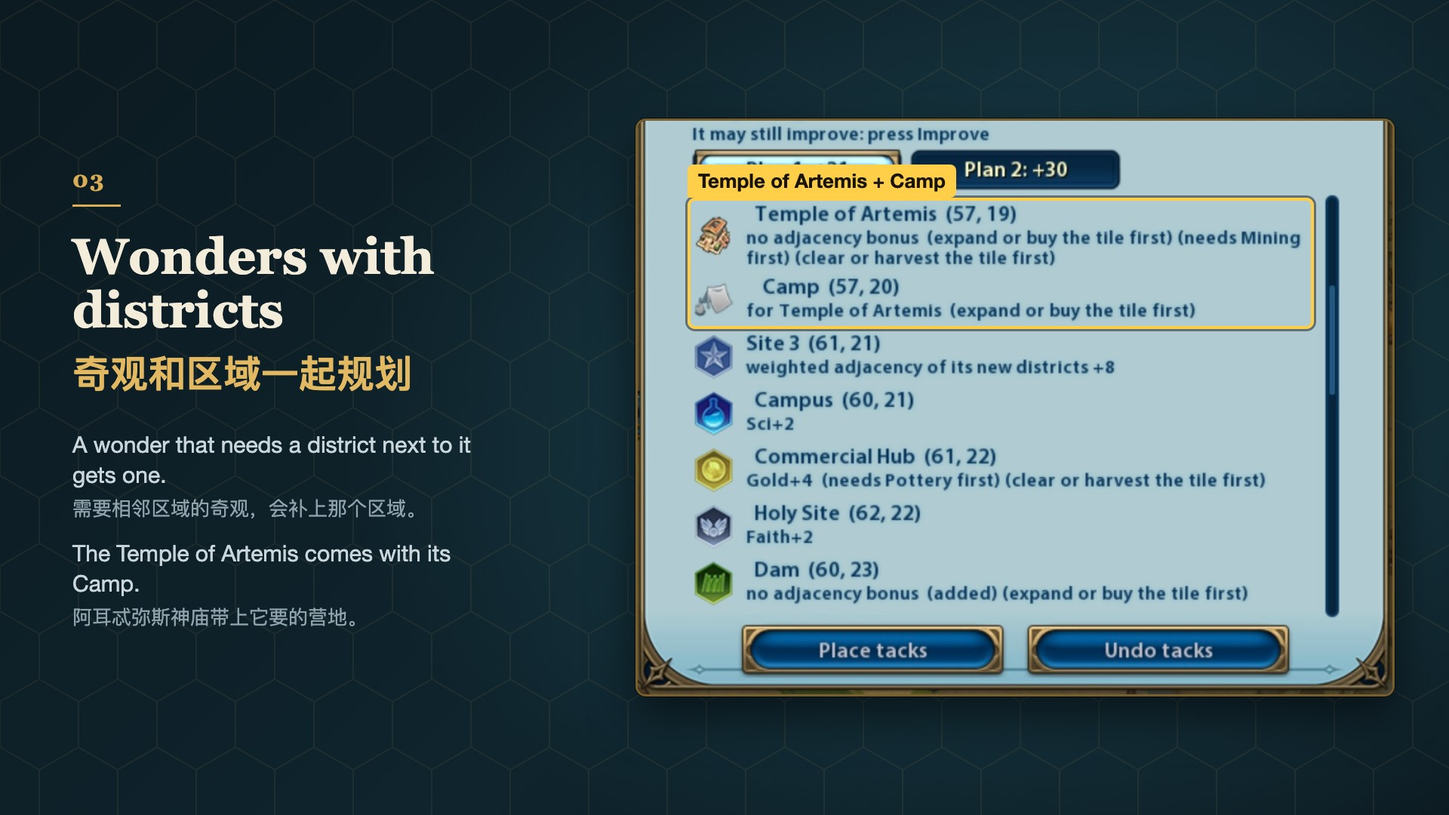
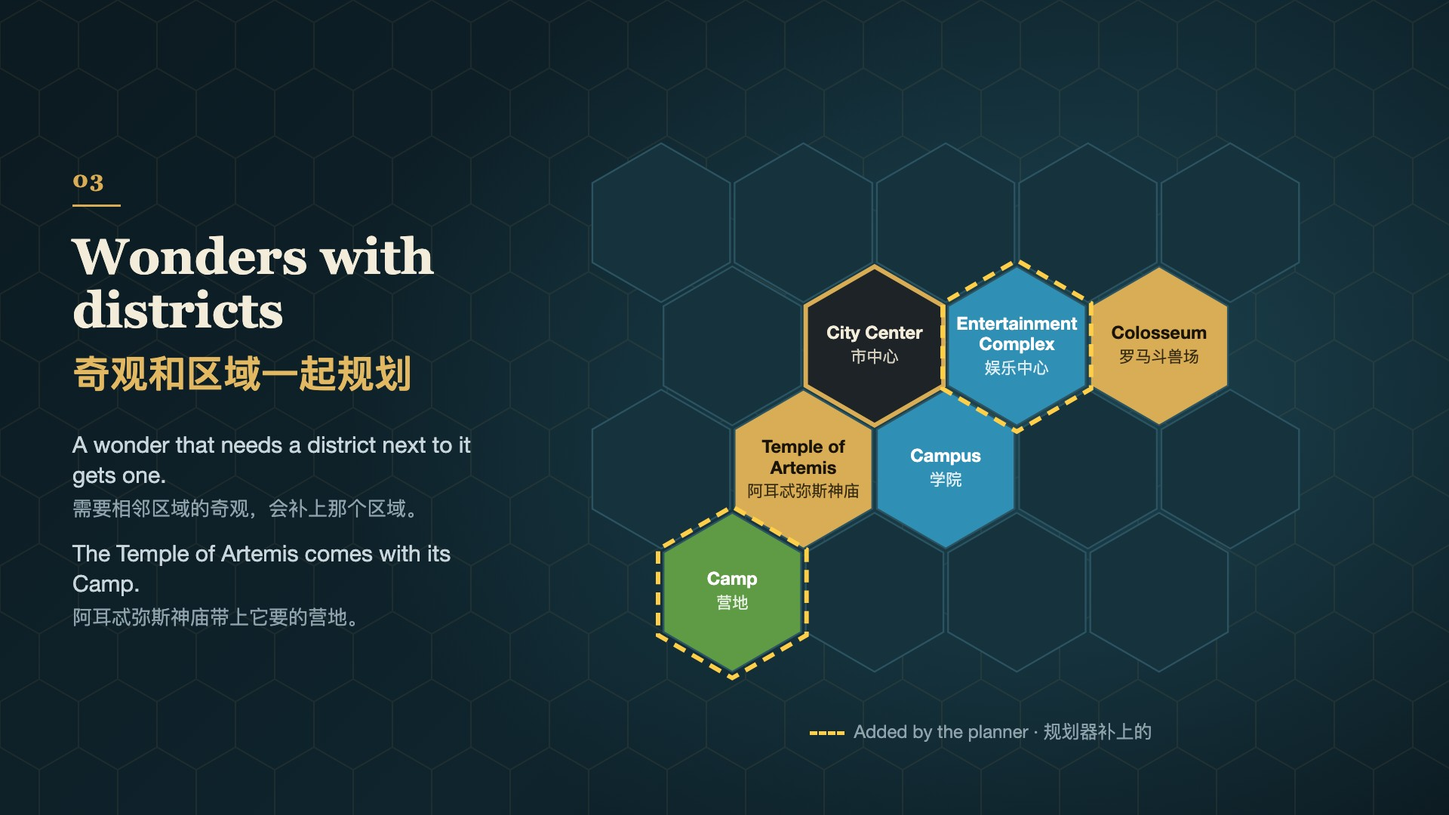
Illustrate the similar-mods section and quality with drawn diagrams, not screenshots (#82)
- report/diagrams.py draws the "what each planner plans" matrix: inline in the
  page (follows its theme) and as SVG files for the README (light/dark via <picture>).
- Section 04 gets a chart of Standard's share of the true optimum per kind of scenario.
- Workshop picture 03 is now a drawn hex schematic of wonders with the districts and
  Camp they need, instead of a panel screenshot.

diff --git a/workshop/src/g3-wonders.html b/workshop/src/g3-wonders.html
@@ -1,8 +1,14 @@
 <!doctype html>
-<!-- Workshop picture 03, 1920 x 1080. Rendered by tools/workshop.py render. -->
+<!-- Workshop picture 03, 1920 x 1080: a drawn schematic, not a screenshot (#82). Rendered by tools/workshop.py render.
+     The hex map is generated once; edit the tiles here directly. -->
 <html lang="en"><head><meta charset="utf-8"><title>Wonders with districts</title>
 <link rel="stylesheet" href="slide.css">
-<style></style></head>
+<style>
+  .map { position: absolute; right: 90px; top: 50%; transform: translateY(-50%); width: 1060px; }
+  .map svg { display: block; width: 100%; height: auto; }
+  .key { position: absolute; right: 90px; bottom: 70px; width: 1060px; font-size: 24px; color: var(--muted); text-align: center; }
+  .key i { display: inline-block; width: 46px; height: 0; border-top: 5px dashed var(--mark); vertical-align: middle; margin-right: 12px; }
+</style></head>
 <body>
   <div class="text">
     <div class="num">03</div>
@@ -13,6 +19,6 @@
     <p>The Temple of Artemis comes with its Camp.<span>阿耳忒弥斯神庙带上它要的营地。</span></p>
     </div>
   </div>
-  <div class="shot" style="width:1000px;height:760px"><img src="../../docs/images/v11-en-panel-multi.jpg" style="object-position:50% 100%"></div>
-  <div class="mark" style="right:179px;top:262px;width:822px;height:166px"><i>Temple of Artemis + Camp</i></div>
+  <div class="map"><svg viewBox="0 0 896 618" font-family="Helvetica Neue, Arial, PingFang SC, Microsoft YaHei, sans-serif"><polygon points="166.8,57.5 166.8,146.5 89.7,191.0 12.6,146.5 12.6,57.5 89.7,13.0" fill="#16323c" stroke="#2b5361" stroke-width="2"/><polygon points="326.1,57.5 326.1,146.5 249.0,191.0 171.9,146.5 171.9,57.5 249.0,13.0" fill="#16323c" stroke="#2b5361" stroke-width="2"/><polygon points="485.4,57.5 485.4,146.5 408.4,191.0 331.3,146.5 331.3,57.5 408.4,13.0" fill="#16323c" stroke="#2b5361" stroke-width="2"/><polygon points="644.8,57.5 644.8,146.5 567.7,191.0 490.6,146.5 490.6,57.5 567.7,13.0" fill="#16323c" stroke="#2b5361" stroke-width="2"/><polygon points="804.1,57.5 804.1,146.5 727.1,191.0 650.0,146.5 650.0,57.5 727.1,13.0" fill="#16323c" stroke="#2b5361" stroke-width="2"/><polygon points="246.4,195.5 246.4,284.5 169.3,329.0 92.3,284.5 92.3,195.5 169.3,151.0" fill="#16323c" stroke="#2b5361" stroke-width="2"/><polygon points="405.8,195.5 405.8,284.5 328.7,329.0 251.6,284.5 251.6,195.5 328.7,151.0" fill="#1d2326" stroke="#d8ad55" stroke-width="5"/><polygon points="565.1,195.5 565.1,284.5 488.0,329.0 411.0,284.5 411.0,195.5 488.0,151.0" fill="#2f8fb5" stroke="#2b5361" stroke-width="2"/><polygon points="724.5,195.5 724.5,284.5 647.4,329.0 570.3,284.5 570.3,195.5 647.4,151.0" fill="#d8ad55" stroke="#2b5361" stroke-width="2"/><polygon points="166.8,333.5 166.8,422.5 89.7,467.0 12.6,422.5 12.6,333.5 89.7,289.0" fill="#16323c" stroke="#2b5361" stroke-width="2"/><polygon points="326.1,333.5 326.1,422.5 249.0,467.0 171.9,422.5 171.9,333.5 249.0,289.0" fill="#d8ad55" stroke="#2b5361" stroke-width="2"/><polygon points="485.4,333.5 485.4,422.5 408.4,467.0 331.3,422.5 331.3,333.5 408.4,289.0" fill="#2f8fb5" stroke="#2b5361" stroke-width="2"/><polygon points="644.8,333.5 644.8,422.5 567.7,467.0 490.6,422.5 490.6,333.5 567.7,289.0" fill="#16323c" stroke="#2b5361" stroke-width="2"/><polygon points="804.1,333.5 804.1,422.5 727.1,467.0 650.0,422.5 650.0,333.5 727.1,289.0" fill="#16323c" stroke="#2b5361" stroke-width="2"/><polygon points="246.4,471.5 246.4,560.5 169.3,605.0 92.3,560.5 92.3,471.5 169.3,427.0" fill="#5f9a45" stroke="#2b5361" stroke-width="2"/><polygon points="405.8,471.5 405.8,560.5 328.7,605.0 251.6,560.5 251.6,471.5 328.7,427.0" fill="#16323c" stroke="#2b5361" stroke-width="2"/><polygon points="565.1,471.5 565.1,560.5 488.0,605.0 411.0,560.5 411.0,471.5 488.0,427.0" fill="#16323c" stroke="#2b5361" stroke-width="2"/><polygon points="724.5,471.5 724.5,560.5 647.4,605.0 570.3,560.5 570.3,471.5 647.4,427.0" fill="#16323c" stroke="#2b5361" stroke-width="2"/><text x="328.7" y="232.0" text-anchor="middle" font-size="20" font-weight="700" fill="#f4ecda">City Center</text><text x="328.7" y="258.0" text-anchor="middle" font-size="18" fill="#f4ecda" opacity=".85">市中心</text><polygon points="571.2,192.0 571.2,288.0 488.0,336.0 404.9,288.0 404.9,192.0 488.0,144.0" fill="none" stroke="#ffcf4a" stroke-width="5" stroke-dasharray="14 9"/><text x="488.0" y="222.0" text-anchor="middle" font-size="20" font-weight="700" fill="#ffffff">Entertainment</text><text x="488.0" y="245.0" text-anchor="middle" font-size="20" font-weight="700" fill="#ffffff">Complex</text><text x="488.0" y="271.0" text-anchor="middle" font-size="18" fill="#ffffff" opacity=".85">娱乐中心</text><text x="647.4" y="232.0" text-anchor="middle" font-size="20" font-weight="700" fill="#1a1408">Colosseum</text><text x="647.4" y="258.0" text-anchor="middle" font-size="18" fill="#1a1408" opacity=".85">罗马斗兽场</text><text x="249.0" y="360.0" text-anchor="middle" font-size="20" font-weight="700" fill="#1a1408">Temple of</text><text x="249.0" y="383.0" text-anchor="middle" font-size="20" font-weight="700" fill="#1a1408">Artemis</text><text x="249.0" y="409.0" text-anchor="middle" font-size="18" fill="#1a1408" opacity=".85">阿耳忒弥斯神庙</text><polygon points="252.5,468.0 252.5,564.0 169.3,612.0 86.2,564.0 86.2,468.0 169.3,420.0" fill="none" stroke="#ffcf4a" stroke-width="5" stroke-dasharray="14 9"/><text x="169.3" y="508.0" text-anchor="middle" font-size="20" font-weight="700" fill="#ffffff">Camp</text><text x="169.3" y="534.0" text-anchor="middle" font-size="18" fill="#ffffff" opacity=".85">营地</text><text x="408.4" y="370.0" text-anchor="middle" font-size="20" font-weight="700" fill="#ffffff">Campus</text><text x="408.4" y="396.0" text-anchor="middle" font-size="18" fill="#ffffff" opacity=".85">学院</text></svg></div>
+  <p class="key"><i></i>Added by the planner · 规划器补上的</p>
 </body></html>

diff --git a/report/template_en.html b/report/template_en.html
@@ -359,6 +359,7 @@ details.appx[open] > summary { margin-bottom: 8px; }
 
 <section id="similar"><div class="col">
   <h2 data-n="03">Similar mods</h2>
+  <figure><div class="frame scroll">{{SIMILAR_FIG}}</div><figcaption>What each planner plans (checked on 2026-10-26 against each mod's Workshop page and files). The table below also lists rulesets, interface languages, what not to enable together and update dates.</figcaption></figure>
   <p>The Steam Workshop has a few more mods that plan districts, each with its own focus; pick by the features you want. First, what they have and this mod does not:</p>
   <ul class="tight">
     <li><b><a href="https://steamcommunity.com/sharedfiles/filedetails/?id=3771382002">Auto Map Tacks Planner</a></b>: for players who want improvements and unique improvements laid out together with districts and wonders, as a long-term blueprint by population. This mod does not have: planning improvements and unique improvements; taking your “Remove Feature / Harvest Resource / Plant Woods” tacks as instructions; the two modes “only what is unlocked” and “long-term blueprint”; a Traditional Chinese interface.</li>
@@ -394,6 +395,10 @@ details.appx[open] > summary { margin-bottom: 8px; }
   <h3>How far from the best</h3>
   <p>Offline, with the real rules exported from the game and DMT's code as it is, the planner plans scenarios modeled on real games; each plan is scored by the numbers its map tacks show and set against the true optimum found by branch and bound (method in appendix B.1). {{QUALITY_TEXT}}</p>
   <p>{{OPTIMUM_TEXT}}</p>
+  <figure>
+    <div class="frame chart" id="ch-optimum"></div>
+    <figcaption>Standard's mean share of the true optimum, by kind of scenario. Dark bars: the optimum is proven; a lighter extension: some scenarios are not proven, and the share lies between the end of the dark part (against the optimum's upper bound) and the end of the light part (against the best plan known). Hover for the number of scenarios.</figcaption>
+  </figure>
 </div>
 <div class="col tablewrap" style="margin-inline:auto">{{OPTIMUM_TABLE}}</div>
 <div class="col">

diff --git a/report/charts.js b/report/charts.js
@@ -112,6 +112,30 @@
       });
     });
   }
+  // One bar per row from cfg.min: solid to r.low, a lighter part on to r.known when r.ranged.
+  function rangeBars(id, cfg) {
+    if (!has(id)) return;
+    const host = document.getElementById(id);
+    const W = 640, left = labelRoom(cfg.rows.map(r => r.label), 150), right = 74, top = 8, rowH = 26;
+    const H = top + cfg.rows.length * rowH + 28;
+    const svg = el('svg', { viewBox: '0 0 ' + W + ' ' + H, role: 'img', 'aria-label': cfg.aria }, host);
+    const x = v => left + (Math.max(v, cfg.min) - cfg.min) / (cfg.max - cfg.min) * (W - left - right);
+    cfg.ticks.forEach(t => {
+      el('line', { x1: x(t), x2: x(t), y1: top, y2: H - 24, class: t === cfg.min ? 'base' : 'grid' }, svg);
+      txt(svg, x(t), H - 8, t + '%', 'ax', 'middle');
+    });
+    cfg.rows.forEach((r, i) => {
+      const y0 = top + i * rowH, bh = 14, by = y0 + 6;
+      txt(svg, left - 10, y0 + 17, r.label, 'ax-l', 'end');
+      const g = el('g', {}, svg);
+      if (r.ranged) el('rect', { x: x(cfg.min), y: by, width: Math.max(2, x(r.known) - x(cfg.min)), height: bh, rx: 3,
+        style: 'fill: var(--sdp); opacity: 0.3' }, g);
+      el('rect', { x: x(cfg.min), y: by, width: Math.max(2, x(r.low) - x(cfg.min)), height: bh, rx: 3, style: 'fill: var(--sdp)' }, g);
+      hover(g, r.tip);
+      txt(svg, x(r.ranged ? r.known : r.low) + 6, by + 11,
+        r.ranged ? r.low.toFixed(0) + '–' + r.known.toFixed(0) + '%' : r.low.toFixed(1) + '%', 'val', 'start');
+    });
+  }
   // One row per planner, one dot per scenario, a tick at the mean.
   function strip(id, cfg) {
     if (!has(id)) return;
@@ -192,6 +216,9 @@
       fmt: (v, l) => (l ? v.toFixed(1) : v.toFixed(0)) + '%', short: v => v.toFixed(0), aria: aria }, extra || {}));
   };
 
+  if (D.optimum && D.optimum.length) {
+    rangeBars('ch-optimum', { rows: D.optimum, min: 50, max: 100, ticks: [50, 60, 70, 80, 90, 100], aria: T.ariaOptimum });
+  }
   table('tb-overview', T.headOverview,
     D.overview.map(r => [r.label, r.best, r.quality, r.worst, r.legal, r.missing, r.time]));
 

diff --git a/report/template.html b/report/template.html
@@ -358,6 +358,7 @@ details.appx[open] > summary { margin-bottom: 8px; }
 
 <section id="similar"><div class="col">
   <h2 data-n="03">同类模组</h2>
+  <figure><div class="frame scroll">{{SIMILAR_FIG}}</div><figcaption>各模组规划什么（2026-10-26 按各自的创意工坊页面和模组文件核对）。下面的表还列了规则集、界面语言、同开限制和更新日期。</figcaption></figure>
   <p>创意工坊里还有几个自动规划区域的模组，取向各不相同，可以按想要的功能挑。先列它们有、本模组没有的功能：</p>
   <ul class="tight">
     <li><b><a href="https://steamcommunity.com/sharedfiles/filedetails/?id=3771382002">Auto Map Tacks Planner</a></b>：适合想把改良设施、特色改良设施和区域、奇观一起排，按人口做长期蓝图的玩家。本模组没有的：规划改良设施和特色改良设施；把你打的“移除地貌 / 采收 / 种树”钉当作规划指令；“只用已解锁的内容”和“长期蓝图”两种模式；繁体中文界面。</li>
@@ -393,6 +394,10 @@ details.appx[open] > summary { margin-bottom: 8px; }
   <h3>离最优多远</h3>
   <p>在离线环境里，用游戏导出的真实规则和 DMT 原样的代码，在模拟实际对局的场景上规划，按地图钉上显示的数打分，再与用分支定界求出的真最优比较（方法见附录 B.1）。{{QUALITY_TEXT}}</p>
   <p>{{OPTIMUM_TEXT}}</p>
+  <figure>
+    <div class="frame chart" id="ch-optimum"></div>
+    <figcaption>标准档的加成占真最优的平均比例，按场景类别。深色条：真最优已证明；浅色延长的部分：有场景没证明，比例在深色末端（按真最优的上界算）和浅色末端（按已知最好的方案算）之间。悬停看场景数。</figcaption>
+  </figure>
 </div>
 <div class="col tablewrap" style="margin-inline:auto">{{OPTIMUM_TABLE}}</div>
 <div class="col">

diff --git a/report/diagrams.py b/report/diagrams.py
@@ -1,0 +1,115 @@
+"""Diagrams drawn for the page and the README, in Chinese and English.
+
+    python3 -I report/diagrams.py      # writes docs/images/similar-mods-{zh,en}-{light,dark}.svg
+
+similar_svg(lang) is the "what each planner plans" matrix (section 03 and
+the README's similar-mods table): facts only, no scores. Inline in the page
+it colors itself with the page's CSS variables, so it follows the page's
+theme; the README gets one file per theme (<picture> picks it).
+"""
+import os
+
+HERE = os.path.dirname(os.path.abspath(__file__))
+REPO = os.path.dirname(HERE)
+
+# Checked on 2026-10-26 against each mod's Workshop page and files (docs/notes/planner-comparison.md).
+# Each cell: (mark, note): mark "y" plans it, "p" only the one a wonder needs, "n" does not, "t" plain text.
+SIMILAR = {
+    "cols": {"zh": ["区域", "奇观", "改良设施", "选新城址", "多城一起规划", "需要 DMT"],
+             "en": ["Districts", "Wonders", "Improvements", "New city sites", "Cities together", "Needs DMT"]},
+    "rows": [
+        ("Auto Map Tacks Planner", None, [
+            ("y", ("", "")), ("y", ("", "")), ("y", ("含特色改良", "unique ones too")), ("n", ("", "")),
+            ("y", ("最多 4 座", "up to 4")), ("t", ("需要", "yes"))]),
+        ("Empire Planner", None, [
+            ("y", ("", "")), ("y", ("", "")), ("y", ("", "")), ("y", ("0–6 处", "0–6")),
+            ("y", ("全部城市", "every city")), ("t", ("不需要", "no"))]),
+        ("District & Wonder Planner", None, [
+            ("y", ("一次 3 种", "3 kinds at a time")), ("y", ("最多 5 座", "up to 5")), ("p", ("奇观所需", "for a wonder")),
+            ("n", ("", "")), ("y", ("可勾选全部", "all, with a tick")), ("t", ("需要", "yes"))]),
+        ("本模组", "This mod", [
+            ("y", ("", "")), ("y", ("", "")), ("p", ("奇观所需", "for a wonder")), ("y", ("", "")),
+            ("y", ("最多 8 座", "up to 8")), ("t", ("需要", "yes"))]),
+    ],
+    "legend": {"zh": [("y", "规划"), ("p", "只规划奇观需要的那一种"), ("n", "不规划")],
+               "en": [("y", "plans it"), ("p", "only the one a wonder needs"), ("n", "does not plan it")]},
+}
+
+# Colors of a standalone file, per theme (the page uses its own CSS variables instead).
+THEMES = {
+    "light": {"fg": "#14202a", "muted": "#56646e", "line": "#d4dce1", "mark": "#1d6470", "soft": "#dcecef"},
+    "dark": {"fg": "#e3eaee", "muted": "#9fb0ba", "line": "#2a3a44", "mark": "#6ab9c6", "soft": "#173039"},
+}
+PAGE = {"fg": "var(--fg)", "muted": "var(--muted)", "line": "var(--line)", "mark": "var(--teal)", "soft": "var(--teal-soft)"}
+
+
+def _esc(s):
+    return s.replace("&", "&amp;").replace("<", "&lt;").replace(">", "&gt;")
+
+
+def _mark(kind, cx, cy, c):
+    r = 9
+    if kind == "y":
+        return ('<circle cx="%g" cy="%g" r="%g" fill="%s"/>'
+                '<path d="M%g %g l3.6 3.8 l6.6 -7.4" fill="none" stroke="%s" stroke-width="2.2" stroke-linecap="round" '
+                'stroke-linejoin="round"/>' % (cx, cy, r, c["mark"], cx - 5, cy, c["soft"]))
+    if kind == "p":
+        return ('<circle cx="%g" cy="%g" r="%g" fill="none" stroke="%s" stroke-width="2"/>'
+                '<path d="M%g %g a%g %g 0 0 1 0 %g z" fill="%s"/>' % (cx, cy, r - 1, c["mark"], cx, cy - r + 1, r - 1, r - 1,
+                                                                    2 * (r - 1), c["mark"]))
+    return '<circle cx="%g" cy="%g" r="%g" fill="none" stroke="%s" stroke-width="1.6"/>' % (cx, cy, r - 1, c["muted"])
+
+
+def similar_svg(lang="zh", theme=None):
+    """The matrix as an SVG string; theme None colors it with the page's CSS variables."""
+    c = PAGE if theme is None else THEMES[theme]
+    li = 0 if lang == "zh" else 1
+    font = ('"Noto Sans SC", "PingFang SC", "Microsoft YaHei", system-ui, sans-serif' if lang == "zh"
+            else 'system-ui, -apple-system, "Segoe UI", Helvetica, Arial, sans-serif')
+    name_w, col_w, head_h, row_h = 196, 104, 44, 58
+    cols = SIMILAR["cols"][lang]
+    W = name_w + col_w * len(cols) + 8
+    H = head_h + row_h * len(SIMILAR["rows"]) + 44
+    out = ['<svg xmlns="http://www.w3.org/2000/svg" viewBox="0 0 %d %d" role="img" font-family=\'%s\' aria-label="%s">'
+           % (W, H, font, _esc("各模组规划什么" if lang == "zh" else "What each planner plans"))]
+    for i, name in enumerate(cols):
+        x = name_w + col_w * i + col_w / 2
+        out.append('<text x="%g" y="%d" text-anchor="middle" font-size="12.5" fill="%s">%s</text>' % (x, head_h - 16, c["muted"], _esc(name)))
+    for r, (zh, en, cells) in enumerate(SIMILAR["rows"]):
+        y0 = head_h + row_h * r
+        out.append('<line x1="0" x2="%d" y1="%d" y2="%d" stroke="%s"/>' % (W, y0, y0, c["line"]))
+        label = zh if li == 0 or en is None else en
+        out.append('<text x="10" y="%d" font-size="14" font-weight="600" fill="%s">%s</text>' % (y0 + row_h / 2 + 5, c["fg"], _esc(label)))
+        for i, (kind, notes) in enumerate(cells):
+            cx = name_w + col_w * i + col_w / 2
+            note = notes[li]
+            if kind == "t":
+                out.append('<text x="%g" y="%d" text-anchor="middle" font-size="13" fill="%s">%s</text>' % (cx, y0 + row_h / 2 + 5, c["fg"], _esc(note)))
+                continue
+            cy = y0 + (row_h / 2 - 7 if note else row_h / 2)
+            out.append(_mark(kind, cx, cy, c))
+            if note:
+                out.append('<text x="%g" y="%d" text-anchor="middle" font-size="11.5" fill="%s">%s</text>' % (cx, cy + 25, c["muted"], _esc(note)))
+    yb = head_h + row_h * len(SIMILAR["rows"])
+    out.append('<line x1="0" x2="%d" y1="%d" y2="%d" stroke="%s"/>' % (W, yb, yb, c["line"]))
+    x = 12
+    for kind, text in SIMILAR["legend"][lang]:
+        out.append(_mark(kind, x + 9, yb + 24, c))
+        out.append('<text x="%d" y="%d" font-size="12.5" fill="%s">%s</text>' % (x + 24, yb + 29, c["muted"], _esc(text)))
+        x += 34 + int(len(text) * (13 if lang == "zh" else 6.6))
+    out.append("</svg>")
+    return "".join(out)
+
+
+def write_files():
+    """docs/images/similar-mods-<lang>-<theme>.svg for the README."""
+    for lang in ("zh", "en"):
+        for theme in THEMES:
+            path = os.path.join(REPO, "docs", "images", "similar-mods-%s-%s.svg" % (lang, theme))
+            with open(path, "w", encoding="utf-8") as fh:
+                fh.write(similar_svg(lang, theme) + "\n")
+            print(os.path.relpath(path, REPO))
+
+
+if __name__ == "__main__":
+    write_files()

diff --git a/report/build.py b/report/build.py
@@ -43,6 +43,7 @@ OUT = os.path.join(REPO, "dist", "report")
 sys.path.insert(0, os.path.join(REPO, "tests", "compare"))
 sys.path.insert(0, HERE)
 import summarize  # noqa: E402
+import diagrams  # noqa: E402
 
 # Everything the report reads, so tools/package.py can refuse uncommitted changes to it.
 INPUTS = ["report", "tests/compare/results", "tests/compare/summarize.py", "docs/images", "tests/stress/results"]
@@ -122,6 +123,7 @@ CHART_WORDS = {
         "headWonders": ["档位", "奇观放下", "合法方案", "达到真最优", "平均质量"],
         "better": "没有一项更差、至少一项更好", "same": "两项都相同", "tradeoff": "一项更好、一项更差",
         "worse": "没有一项更好、至少一项更差", "excluded": "不比",
+        "ariaOptimum": "各类场景标准档的加成占真最优的比例",
         "ariaBest": "按阶段达到真最优的场景比例", "ariaQuality": "按阶段的平均质量",
         "ariaRobust": "各场景集达到真最优的比例", "ariaMRobust": "多城开发集与留出集达到参照的比例",
         "ariaWonders": "奇观放下的比例与达到真最优的比例", "ariaStrip": "多城场景的加成占该场景参照的百分比",
@@ -137,6 +139,7 @@ CHART_WORDS = {
         "headWonders": ["Effort level", "Wonders placed", "Valid plans", "At the optimum", "Mean quality"],
         "better": "None worse, at least one better", "same": "Both the same", "tradeoff": "One better, one worse",
         "worse": "None better, at least one worse", "excluded": "Not compared",
+        "ariaOptimum": "Standard's share of the true optimum in each kind of scenario",
         "ariaBest": "Share of scenarios at the true optimum, by stage", "ariaQuality": "Mean quality by stage",
         "ariaRobust": "Share of scenarios at the true optimum in each set",
         "ariaMRobust": "Share of several-city scenarios at the reference, development and held-out sets",
@@ -305,6 +308,7 @@ def build(files=None, version=None, date=None, lang="zh"):
         "DOWNLOAD_LABEL": (L("下载 ", "Download ") + version) if version.startswith("v") else L("下载最新版", "Download the latest version"),
         "N_SINGLE": str(len(single)), "N_MULTI": str(len(multi)), "N_CIVS": "17",
         "SELF_CHECK": L("%d 次，%d 次不一致", "%d runs, %d differ") % (self_n, self_mis),
+        "SIMILAR_FIG": diagrams.similar_svg(lang),
     }
     late = by_best[-1]["values"] if by_best else {}
     texts["SINGLE_TEXT"] = ""
@@ -573,7 +577,7 @@ def build(files=None, version=None, date=None, lang="zh"):
             return None
         return {"n": n, "low": statistics.mean(low), "known": statistics.mean(known), "worst": min(low), "hit": hit, "over": over, "fewer": fewer}
 
-    opt_rows, opt_data = [], {}
+    opt_rows, opt_data, opt_chart = [], {}, []
     for set_name, kind, zh, en, planners in OPT_SETS:
         sub = {sid: e for sid, e in summarize.subset(scenarios, set_name, kind).items() if e.get("reference") is not None}
         if not sub:
@@ -593,6 +597,16 @@ def build(files=None, version=None, date=None, lang="zh"):
         if all(v is None for v in data.values()):
             continue
         opt_data[(set_name, kind)] = {"n": len(sub), "proven": proven, "planners": data}
+        st = data.get("sdp:STANDARD")
+        if st:
+            opt_chart.append({"label": L(zh, en), "low": st["low"] * 100, "known": st["known"] * 100, "ranged": ranged > 0,
+                              "tip": (L("%s：标准档平均达到真最优的 %s，%d / %d 个正好是", "%s: Standard reaches %s of the optimum on average, "
+                                        "the optimum itself in %d of %d") % (L(zh, en), pct(st["low"], 1), st["hit"], len(sub)))
+                              if not ranged else
+                              (L("%s：%d 个场景里 %d 个已证明；标准档在真最优的 %s 到 %s 之间",
+                                 "%s: %d of %d scenarios proven; Standard is between %s and %s of the optimum")
+                               % (((L(zh, en), len(sub), proven) if not EN else (L(zh, en), proven, len(sub)))
+                                  + (pct(st["low"], 0), pct(st["known"], 0))))})
         label = L(zh, en)
         prov = L("%d / %d", "%d / %d") % (proven, len(sub))
         opt_rows.append("<tr><td>%s</td><td class=\"num\">%s</td>%s</tr>" % (
@@ -796,6 +810,7 @@ def build(files=None, version=None, date=None, lang="zh"):
         "byStage": {"best": by_best, "quality": by_q, "qMin": qmin, "qTicks": qticks},
         "correct": correct, "robust": robust_rows, "robustGroups": robust_groups, "robustMultiGroups": robust_multi_groups,
         "coverage": coverage, "wonders": wonder_rows, "wonderGroups": wonder_groups,
+        "optimum": opt_chart,
         "strip": {"rows": strip, "min": mmin, "max": 100, "ticks": list(range(mmin, 101, 10))},
     }
 

diff --git a/CONTRIBUTING.md b/CONTRIBUTING.md
@@ -97,7 +97,7 @@
 - 测试项数、耗时这类数字只写在自测报告和“介绍与评测”页里（由脚本生成或刷新），其他文档链接过去，免得过时。
 - 例外：面板开关的悬停提示写给玩家，分三段（中间空一行）：这个开关做什么（背后的游戏规则）、收益、代价；不用“候选格”“求解”这类内部词，不重复勾选框已经显示的默认值。收益尽量写成实测的百分比（如“相邻加成平均高 x%”），代价写手动操作和耗时倍数。数字的出处（场景、档位、命令、结果文件）记在 [docs/notes/](docs/notes/) 里对应 Issue 的记录，结果文件放在 `tests/compare/results/`。改了算法、规则或测试集后，按发版清单重跑并更新这些数字。
 - 截图只截游戏画面，不带系统菜单栏、标题栏、任务栏或 Dock。放在 `docs/images/`，按 `v<轮次>-<内容>.jpg` 命名，英文界面的加 `-en-`；有中英文两版的画面两版都拍（`tools/shots.py`）。
-- 对外的文档（README、安装说明、介绍页、创意工坊简介和图片、测试者说明）只写本模组自己：能做什么、怎么用、不做什么、局限，数字只和真最优或本模组自己的设置比。别的模组只出现在“同类模组”对照表、“一局只开一个规划器”的提醒和致谢里：对照表只列事实（规划什么、依赖、规则集、语言、同开限制），先写别人有、本模组没有的功能，链接对方页面，写明核对日期，不放分数、不排名次，图只用本模组自己的截图。与别的规划模组的离线对比结果写在 [docs/notes/planner-comparison.md](docs/notes/planner-comparison.md)，措辞中性，对外页面不链接。（#82）
+- 对外的文档（README、安装说明、介绍页、创意工坊简介和图片、测试者说明）只写本模组自己：能做什么、怎么用、不做什么、局限，数字只和真最优或本模组自己的设置比。别的模组只出现在“同类模组”对照表、“一局只开一个规划器”的提醒和致谢里：对照表只列事实（规划什么、依赖、规则集、语言、同开限制），先写别人有、本模组没有的功能，链接对方页面，写明核对日期，不放分数、不排名次；配图用自己画的示意图和图表（中英各一份，深浅主题都看得清，见 `report/diagrams.py`），不用游戏截图，图里同样只放事实。与别的规划模组的离线对比结果写在 [docs/notes/planner-comparison.md](docs/notes/planner-comparison.md)，措辞中性，对外页面不链接。（#82）
 - “介绍与评测”页由 `report/build.py` 生成，正文 7 节写给玩家，技术内容放在附录。中文页、英文页内容相同，附录也有英文版；改了一页就同步改另一页（`report/template.html` 与 `report/template_en.html`，附录里的图（`part_*_en.html`、`hexfig_en.svg.txt`）、`build.py` 生成的句子和表格、图表文字（`build.py` 的 `CHART_WORDS`）都要有英文）。用 Claude 做的页面（artifact）沿用这个页面的样式和写法。
 
 ## 许可证与第三方内容

diff --git a/README.md b/README.md
@@ -4,7 +4,7 @@
 
 <p>
 <img src="workshop/images/01-multi.jpg" width="49%" alt="Several cities planned together: +19 one city at a time, +29 together / 几座城一起规划"> <img src="workshop/images/02-plan.jpg" width="49%" alt="One city: the plan previewed on the map / 单城方案在地图上预览">
-<img src="workshop/images/03-wonders.jpg" width="49%" alt="Wonders planned with districts: the Temple of Artemis comes with its Camp / 奇观和区域一起规划"> <img src="workshop/images/04-sites.jpg" width="49%" alt="City sites and their tooltip / 选城址与悬停提示">
+<img src="workshop/images/03-wonders.jpg" width="49%" alt="Wonders planned with districts, a drawn diagram / 奇观和区域一起规划（示意图）"> <img src="workshop/images/04-sites.jpg" width="49%" alt="City sites and their tooltip / 选城址与悬停提示">
 <img src="workshop/images/05-reminders.jpg" width="49%" alt="Reminder tacks for woods to keep / 勿砍提醒钉"> <img src="workshop/images/06-panel.jpg" width="49%" alt="The panel's three tabs in English and Chinese / 面板三个页签，中英文界面">
 </p>
 
@@ -38,6 +38,11 @@ How close its plans come to the true optimum, its speed and known limitations: s
 > ⚠ **One planner per game**: do not enable it together with Auto Map Tacks Planner, Empire Planner or another district planner; they disturb each other.
 
 ### Similar mods
+
+<picture>
+  <source media="(prefers-color-scheme: dark)" srcset="docs/images/similar-mods-en-dark.svg">
+  <img src="docs/images/similar-mods-en-light.svg" width="760" alt="What each planner plans: districts, wonders, improvements, new city sites, cities together, whether it needs DMT">
+</picture>
 
 Other district planners on the Workshop each have their own focus. What they have and this mod does not comes first:
 
@@ -132,6 +137,11 @@ The development documents are in Chinese; issues and pull requests in English ar
 > ⚠ **一局只开一个规划器**：不要和 Auto Map Tacks Planner、Empire Planner 等区域规划模组同时启用，它们会互相干扰。
 
 ### 同类模组
+
+<picture>
+  <source media="(prefers-color-scheme: dark)" srcset="docs/images/similar-mods-zh-dark.svg">
+  <img src="docs/images/similar-mods-zh-light.svg" width="760" alt="各模组规划什么：区域、奇观、改良设施、选新城址、多城一起规划、是否需要 DMT">
+</picture>
 
 创意工坊里还有几个自动规划区域的模组，取向各不相同。先列它们有、本模组没有的功能：
 

diff --git a/tools/README.md b/tools/README.md
@@ -283,6 +283,7 @@ python3 -I report/build.py --version v1.0.0 --site _site   # 另输出 GitHub Pa
 - 读 `tests/compare/results/` 里的结果（文件列表见 `RESULTS`），只取本模组的运行（`sdp:*`）和真最优，套进 `report/template.html`（附录 A 的结构图和算法来自 `part_arch.html`、`part_algo.html`，图表脚本 `charts.js`）。
 - 版本默认是提交号，日期是提交日期；`--version` 以 `v` 开头时，下载按钮指向这个版本的 Release，否则指向最新的 Release。
 - `index.html`、`en/index.html` 不带文档外壳，截图写成 `images/<文件名>`；`report.html`、`report_en.html` 是单文件版，截图内嵌，可直接用浏览器打开，`package.py` 打进压缩包（`REPORT.html`、`REPORT_EN.html`）；`--site DIR` 写出带外壳的 `DIR/index.html`、`DIR/en/index.html` 和用到的截图。
+- `report/diagrams.py`：自己画的示意图。`similar_svg(lang)` 是同类模组一节“各模组规划什么”的矩阵，页面里内联、跟随页面的深浅主题；`python3 -I report/diagrams.py` 另写出 README 用的 `docs/images/similar-mods-{zh,en}-{light,dark}.svg`（README 用 `<picture>` 按主题选）。改了对照表的事实，表格（模板和 README）和这里的 `SIMILAR` 一起改，再重写 SVG。
 - 同样的输入得到同样的页面。线上的页面只在发布 Release 时更新（`.github/workflows/release.yml`，也可在 Actions 里手动运行）。
 
 ## run_tests.py — 游戏内测试

diff --git a/CHANGELOG.md b/CHANGELOG.md
@@ -4,7 +4,7 @@
 
 ## 未发布
 
-- README、介绍页、安装说明和创意工坊简介只写本模组自己：去掉和 Auto Map Tacks Planner、Empire Planner 比高低的数据和三方对比图（创意工坊第 3 张图换成“奇观和区域一起规划”）；介绍页第 3 节换成同类模组对照表（各自规划什么、依赖、规则集、语言、同开限制，先写别的模组有、本模组没有的功能，附各自的创意工坊链接），另加致谢。质量数字只和真最优比（#82）。
+- README、介绍页、安装说明和创意工坊简介只写本模组自己：去掉和 Auto Map Tacks Planner、Empire Planner 比高低的数据和三方对比图（创意工坊第 3 张图换成画的“奇观和区域一起规划”示意图）；介绍页第 3 节换成同类模组对照表（各自规划什么、依赖、规则集、语言、同开限制，先写别的模组有、本模组没有的功能，附各自的创意工坊链接），配一张“各模组规划什么”的示意图，另加致谢。质量数字只和真最优比，第 4 节加一张各类场景离真最优多远的图（#82）。
 
 ## v1.5.0（2026-10-26）
 
